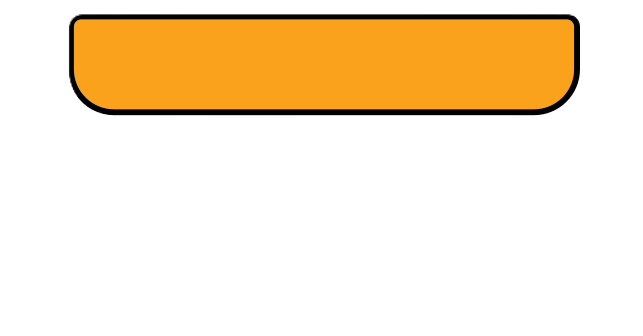
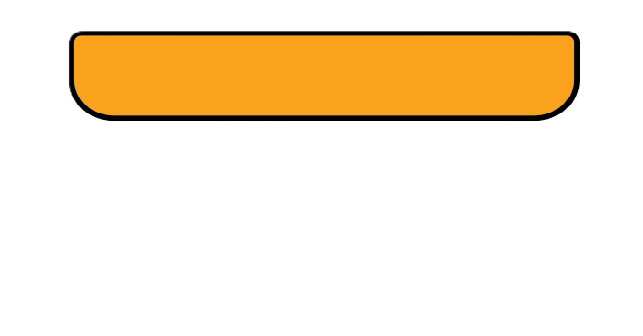
CATCHING WORKS!! (slightly buggy but it's okay for now)

Changed region(s): [[0.0933, 0.0298, 0.902, 0.119], [0.0933, 0.2381, 0.902, 0.3571]]

diff --git a/minigames.py b/minigames.py
@@ -59,124 +59,7 @@ def draw(WIN, draw, x1, y1, x2, y2, x3, y3, x4, y4):
         pygame.display.update()
     WIN.blit(canvas, [x/2 - canvasSize[0]/2, y/2 - canvasSize[1]/2])
     pygame.display.update()
-
-def assembly2(window_x, window_y, WIN, main1Bg_image, bgPosition, assembly):
-    hand_width = 100
-    hand_height = 100
-    hand_x = window_x // 2 - hand_width
-    hand_y = window_y - hand_height - 20
-    hand_speed = 10
-    component_width = 150
-    component_height = 250
-    component_speed = 5
-    count = 0
-
-    #images
-    hand_image = pygame.image.load(os.path.join('Culinary Quest ASSETS','hand.png'))
-    topBun_image = pygame.image.load(os.path.join('Culinary Quest ASSETS','burger_bun.png'))
-    bottomBun_image = pygame.image.load(os.path.join('Culinary Quest ASSETS','burger_bottombun.png'))
-    cheeseLayer_image = pygame.image.load(os.path.join('Culinary Quest ASSETS','burger_cheese.png'))
-    lettuceLayer_image = pygame.image.load(os.path.join('Culinary Quest ASSETS','burger_lettuce.png'))
-    onionLayer_image = pygame.image.load(os.path.join('Culinary Quest ASSETS','burger_onion.png'))
-    meatLayer_image = pygame.image.load(os.path.join('Culinary Quest ASSETS','burger_meat.png'))
-    tomatoLayer_image = pygame.image.load(os.path.join('Culinary Quest ASSETS','burger_tomato.png'))
-    
-    #transforming images
-    hand_image = pygame.transform.scale(hand_image, (hand_width, hand_height))
-    topBun_image = pygame.transform.scale(topBun_image, (component_width, component_height))
-    bottomBun_image = pygame.transform.scale(bottomBun_image, (component_width, component_height))
-    cheeseLayer_image = pygame.transform.scale(cheeseLayer_image, (component_width, component_height))
-    lettuceLayer_image = pygame.transform.scale(lettuceLayer_image, (component_width, component_height))
-    onionLayer_image = pygame.transform.scale(onionLayer_image, (component_width, component_height))
-    meatLayer_image = pygame.transform.scale(meatLayer_image, (component_width, component_height))
-    tomatoLayer_image = pygame.transform.scale(tomatoLayer_image, (component_width, component_height))
-
-    burgerLayer_images = [bottomBun_image, lettuceLayer_image, meatLayer_image, cheeseLayer_image, tomatoLayer_image, onionLayer_image, topBun_image]
-    burgerLayer_bool = [False, False, False, False, False, False, False]
-
-    #WIN.blit(hand_image, (hand_x, hand_y))
-    component_x = random.randint(0, window_x - component_width)
-    component_y = -component_height
-    
-    while count != 7 and assembly == True:
-        
-        #WIN.blit(main1Bg_image, bgPosition)
-        hand_rect = WIN.blit(hand_image, (hand_x, hand_y))
-        component_rect = WIN.blit(burgerLayer_images[count], (component_x, component_y))
-
-        for event in pygame.event.get():
-            if event.type == pygame.QUIT:
-                pygame.quit()
-                sys.exit()
-                break
-        
-        #moving the hand left and right
-        '''keys = pygame.key.get_pressed()
-        if keys[pygame.K_LEFT] == True or keys[pygame.K_a] == True:
-            hand_x -= hand_speed
-        if keys[pygame.K_RIGHT] == True or keys[pygame.K_d] == True:
-            hand_x += hand_speed
-        
-        #making sure the hand stays within the screen
-        #if hand_x < 0:
-            #hand_x = 0
-        if hand_x > window_x - component_width:
-            hand_x = window_x - hand_width
-        
-        component_y += component_speed'''
-
-        if event.type == pygame.KEYDOWN:
-            if event.key == pygame.K_LEFT or event.key == pygame.K_a:
-                hand_x -= hand_speed
-            if event.key == pygame.K_RIGHT or event.key == pygame.K_d:
-                hand_x -= hand_speed
-        
-        if hand_x <= 0:
-            hand_x = 0
-        elif hand_x >= window_x:
-            hand_x = window_x
-
-        if component_y > window_y:
-            component_x = random.randint(0, window_x - component_width)
-            component_y = -component_height
-
-        '''WIN.blit(main1Bg_image, bgPosition)
-        #checking whether the user catches the component
-        if component_y == window_y:
-            if count != 6:
-                count = count + 1
-        elif component_y + component_height > hand_y and hand_x < component_x + component_width < hand_x + hand_width:
-            WIN.blit(burgerLayer_images[count], (component_x, component_y))
-            burgerLayer_bool[count] = True
-            print(count, burgerLayer_bool[count])
-            component_x = random.randint(0, window_x - component_width)
-            component_y = -component_height
-            if count != 6:
-                count = count + 1
-        if burgerLayer_bool[0]:
-            WIN.blit(burgerLayer_images[0], ((hand_x + hand_width)//2, hand_y+10))
-        if burgerLayer_bool[1]:
-            WIN.blit(burgerLayer_images[1], ((hand_x + hand_width)//2, hand_y+20))
-        if burgerLayer_bool[2]:
-            WIN.blit(burgerLayer_images[2], ((hand_x + hand_width)//2, hand_y+30))
-        if burgerLayer_bool[3]:
-            WIN.blit(burgerLayer_images[3], ((hand_x + hand_width)//2, hand_y+40))
-        if burgerLayer_bool[4]:
-            WIN.blit(burgerLayer_images[4], ((hand_x + hand_width)//2, hand_y+50))
-        if burgerLayer_bool[5]:
-            WIN.blit(burgerLayer_images[5], ((hand_x + hand_width)//2, hand_y+60))
-        if burgerLayer_bool[6]:
-            WIN.blit(burgerLayer_images[6], ((hand_x + hand_width)//2, hand_y+70))
-
-        WIN.blit(burgerLayer_images[count], (component_x, component_y))
-        if count == 6:
-            count = count + 1
-            assembly = False'''
-
-        pygame.display.update()
-    
-    return assembly
-        
+      
 def assembly(window_x, window_y, WIN, main1Bg_image, bgPosition, assembly):
     hand_width = 150
     hand_height = 150
@@ -187,6 +70,7 @@ def assembly(window_x, window_y, WIN, main1Bg_image, bgPosition, assembly):
     component_height = 100
     component_speed = 5
     count = 0
+    layer_x = ((hand_x + hand_width + 10) // 2)
 
     #images
     hand_image = pygame.image.load(os.path.join('Culinary Quest ASSETS','hand.png'))
@@ -209,14 +93,16 @@ def assembly(window_x, window_y, WIN, main1Bg_image, bgPosition, assembly):
     tomatoLayer_image = pygame.transform.scale(tomatoLayer_image, (component_width, component_height))
 
     burgerLayer_images = [bottomBun_image, lettuceLayer_image, meatLayer_image, cheeseLayer_image, tomatoLayer_image, onionLayer_image, topBun_image]
-    burgerLayer_bool = [False, False, False, False, False, False, False]
+    burgerLayer_order = []
 
-    #WIN.blit(hand_image, (hand_x, hand_y))
+
     component_x = random.randint(0, window_x - component_width)
     component_y = 0
     
     clock = pygame.time.Clock()
-    while assembly == True and count != 8:
+
+    while assembly == True and count != 7:
+
         clock.tick(60)
         WIN.blit(main1Bg_image, bgPosition)
         component_rect = WIN.blit(burgerLayer_images[count], (component_x, component_y))
@@ -229,11 +115,21 @@ def assembly(window_x, window_y, WIN, main1Bg_image, bgPosition, assembly):
                 break
 
         keys = pygame.key.get_pressed()
+
+        if len(burgerLayer_order) != 0:
+            hand_x = layer_x
+            for i in range(len(burgerLayer_order)):
+                WIN.blit(burgerLayer_order[i], (layer_x, hand_y - (10*(i+1))))
+            if keys[pygame.K_LEFT] == True or keys[pygame.K_a] == True:
+                layer_x -= hand_speed
+            if keys[pygame.K_RIGHT] == True or keys[pygame.K_d] == True:
+                layer_x += hand_speed
+        
         if keys[pygame.K_LEFT] == True or keys[pygame.K_a] == True:
             hand_x -= hand_speed
         if keys[pygame.K_RIGHT] == True or keys[pygame.K_d] == True:
             hand_x += hand_speed
-
+            
         if hand_x <= 0:
             hand_x = 0
         elif hand_x >= (window_x - hand_width):
@@ -242,21 +138,18 @@ def assembly(window_x, window_y, WIN, main1Bg_image, bgPosition, assembly):
         component_y += component_speed
 
         if component_y > window_y:
-            if count != 7:
-                count = count+1
             component_x = random.randint(0, window_x - component_width)
             component_y = 0
         elif hand_rect.colliderect(component_rect):
+            burgerLayer_order.append(burgerLayer_images[count])
+            component_x = random.randint(0, window_x - component_width)
+            component_y = 0
             if count != 7:
-                count = count+1
-            if count == 0:
-                burgerLayer_bool[0] = True
-
-        
-        if count == 7:
-            count = count + 1
-            assembly = False
+                count = count + 1
 
         pygame.display.update()
+    
+        if count == 7:
+            assembly = False
 
     return assembly

diff --git a/Culinary_Quest.py b/Culinary_Quest.py
@@ -874,7 +874,6 @@ def shopScreen(mainLoop, shopLoop, username, theme_selected):
         disc3_available = bool(database.getShopData_main(username, "disc3"))
         theme1_available = bool(database.getShopData_main(username, "theme1"))
         theme2_available = bool(database.getShopData_main(username, "theme2"))
-        print(disc_selected)
 
         for event in pygame.event.get():
             if event.type == pygame.QUIT:
@@ -1717,6 +1716,8 @@ def playDisc(disc_selected):
         pygame.mixer.music.load(os.path.join('Culinary Quest ASSETS',"sunday_morning.mp3"))
     pygame.mixer.music.play(-1)
 
+
+
 def main(loginLoop, createLoop, mainLoop, settingsLoop, shopLoop, recipeLoop):
     clock = pygame.time.Clock()
     clock.tick(FPS)
@@ -1741,8 +1742,9 @@ def main(loginLoop, createLoop, mainLoop, settingsLoop, shopLoop, recipeLoop):
         if loginLoop == True:
             pygame.mixer.music.set_volume(0)
             loginLoop, createLoop, mainLoop, username = loginScreen(usernameInput1_input, passwordInput1_input, loginLoop, createLoop, mainLoop)
-            disc_selected = str(database.getData_main(username, "disc_selected"))
-            playDisc(disc_selected)
+            if mainLoop:
+                disc_selected = str(database.getData_main(username, "disc_selected"))
+                playDisc(disc_selected)
 
         if createLoop == True:
             createLoop, loginLoop = createScreen(usernameInput2_input, passwordInput2_input, createLoop, loginLoop)
